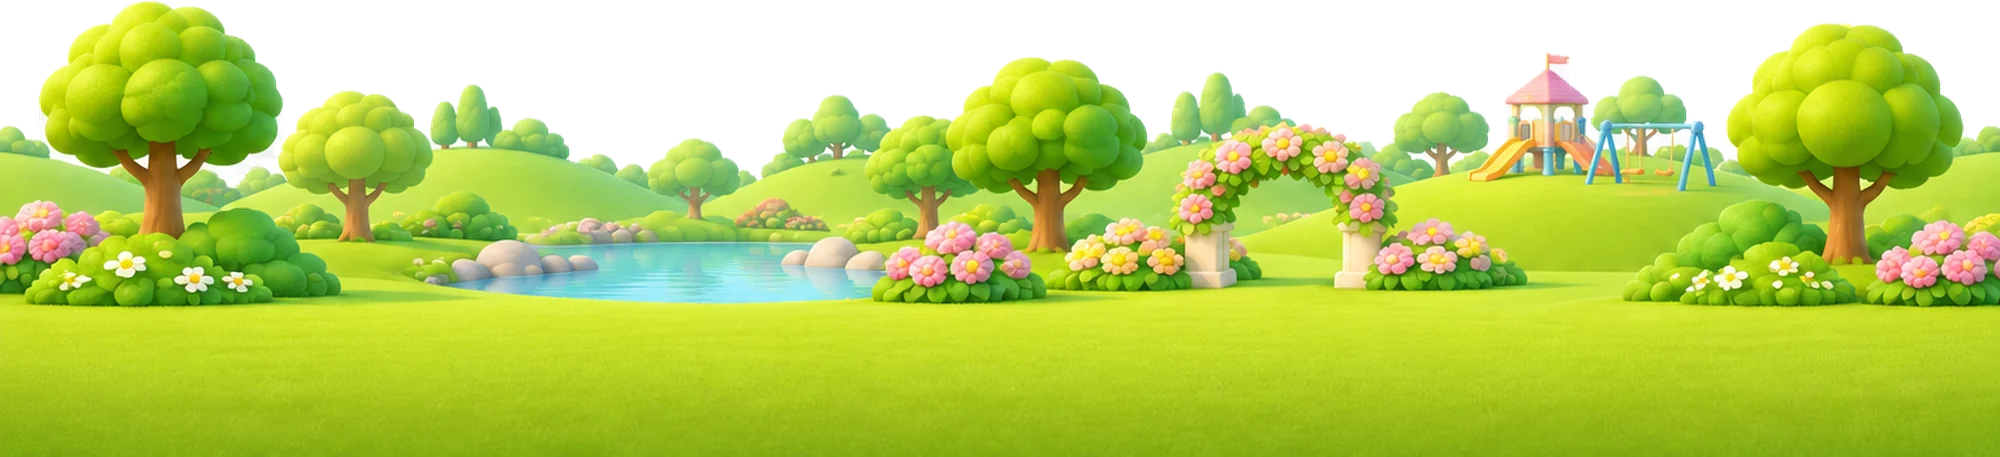
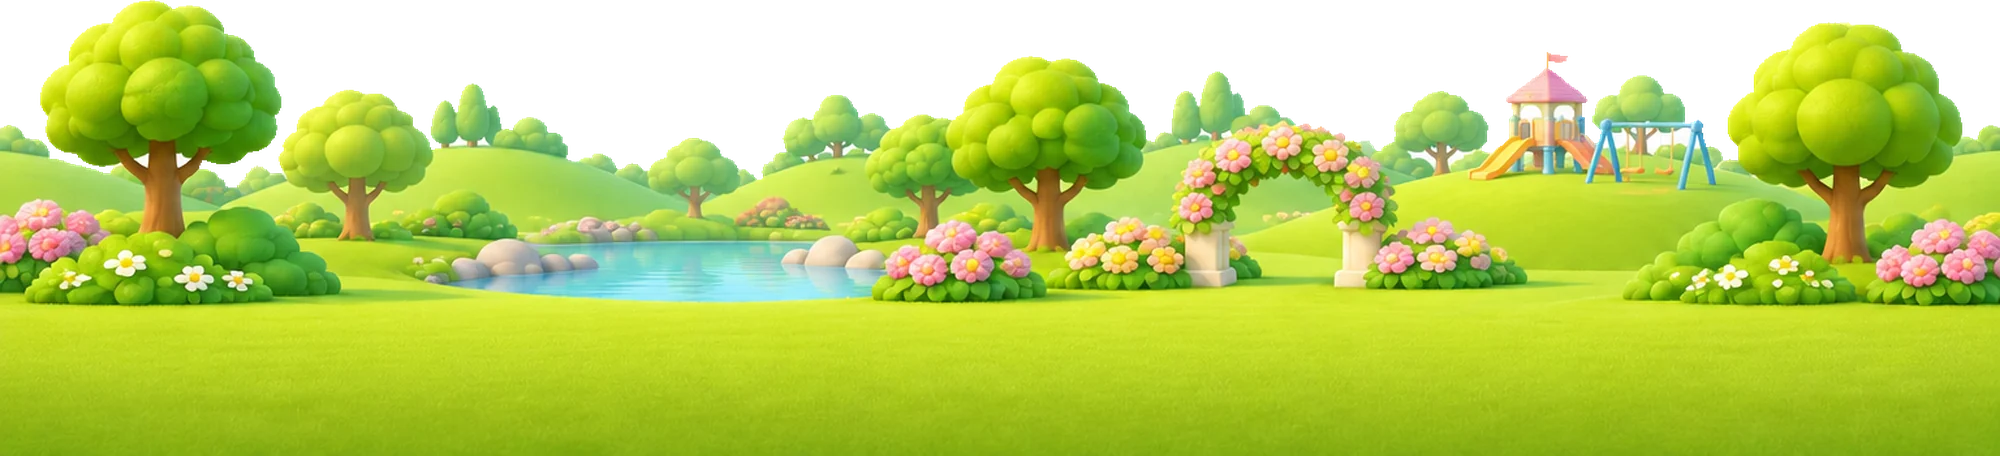
Time Rush: Sunset Town and Dreamland horizons (#15)
* Time Rush: GDD, architecture, asset bible, 113-prompt image library, animation guide

Asset catalog (src/rush/assets/catalog.ts) is the single source of truth for
the game's asset manifest and the generated docs (scripts/rush-docs.mjs).
scripts/rush-slice.py turns generated sheets into baseline-aligned WebP strips.

Claude-Session: https://claude.ai/code/session_013wiJDRDRaaq8MJ7mv9yfAM

* Time Rush: playable Morning Town vertical slice at /rush/

- Pure game core (src/rush/core): segment road generator, Morning Town route
  (3 book pickups, ramps, logs, puddles, boost pads, rainbow rings, paper-tunnel
  shortcut, squirrel acorn quest, library), rider controller with lanes, jumps,
  wobble and boost, story clock 8:00 -> 9:00 tied to progress, clock balloons
  placed where the story clock shows their time; no fail states
- Canvas 2.5D renderer: pseudo-3D road, parallax sky/hills/town, time-of-day
  sky and sun, sprite billboards with live clock hands, pooled particles,
  render-1 Baby Mo (from behind, waist-up) on a drawn balance bike; generated
  art drops in through public/rush/art + atlas.json
- Screens with the app-ayah kit buttons: splash, menu, adventures (5 worlds,
  4 coming soon), mission intro, HUD, pause, delivered, rewards, world unlock,
  bike garage, collection, parent gate + settings; EN/ID; dark menus
- Service worker caches /rush/ on demand (CACHE_RUSH)
- 11 core unit tests, Playwright playthrough in EN + ID (npm run e2e:rush),
  docs/rush/06-TESTING.md
[…]

diff --git a/src/rush/assets/packs.ts b/src/rush/assets/packs.ts
@@ -324,7 +324,7 @@ const STATUS: Record<string, [Pack["status"], string, Pack["priority"]?]> = {
 /** the few images still worth making for Morning Town; everything else waits */
 const NOW = new Set(["p07-jump", "p08-boost", "p09-pickup", "p11-wobble", "p15-celebrate", "p29-obstacles", "p38-ais-ref", "p39-ais-ride", "p40-adam-ref", "p41-adam-ride"]);
 for (const p of PACKS) if (!STATUS[p.id]) p.priority = NOW.has(p.id) ? "now" : "later";
-export const BG_DONE: Record<string, string> = { "bg-home": "your meadow with the clock tower and masjid", "bg-splash": "your sunrise road", "bg-mission": "your house with stepping stones", "bg-delivered": "your library reading room", "bg-rewards": "your rainbow meadow", "bg-garage": "your garage with the turntable", "bg-collection": "your helmet and backpack room", "bg-parents": "your stars, moons and clocks pattern", "far-morning": "your Morning Town horizon (behind the road)", "far-park": "your park horizon (ready for Sunny Park)", "far-seaside": "your seaside horizon (ready for Playtime Village)" };
+export const BG_DONE: Record<string, string> = { "bg-home": "your meadow with the clock tower and masjid", "bg-splash": "your sunrise road", "bg-mission": "your house with stepping stones", "bg-delivered": "your library reading room", "bg-rewards": "your rainbow meadow", "bg-garage": "your garage with the turntable", "bg-collection": "your helmet and backpack room", "bg-parents": "your stars, moons and clocks pattern", "far-morning": "your Morning Town horizon (behind the road)", "far-park": "your park horizon (ready for Sunny Park)", "far-seaside": "your seaside horizon (ready for Playtime Village)", "far-sunset": "your autumn town with the masjid (ready for Sunset Town)", "far-dream": "your night village with the lit masjid (ready for Dreamland)" };
 for (const p of PACKS) { const s = STATUS[p.id]; if (s) { p.status = s[0]; p.note = s[1]; if (s[2]) p.priority = s[2]; } }
 
 export const GROUPS = [...new Set(PACKS.map((p) => p.group))];

diff --git a/scripts/rush-import-art.py b/scripts/rush-import-art.py
@@ -367,11 +367,21 @@ def horizon(src, out):
         # no real transparency (white / fake checker sky): clear everything above the scenery in each column
         rgb = a[..., :3]
         mx, mn = rgb.max(axis=2), rgb.min(axis=2)
-        colourful = ((mx - mn) > 38) | (mx < 205)
+        colourful = ((mx - mn) > 38) | (mx < 150)  # grey checker squares are not scenery
         top = np.argmax(colourful, axis=0)
         rows = np.arange(a.shape[0])[:, None]
         alpha = np.clip((rows - top[None, :] + 2) * 85, 0, 255)  # 3-px soft edge
         a[..., 3] = np.minimum(a[..., 3], alpha)
+        # white sky trapped under palm fronds etc.: clear near-white pixels connected to the open sky
+        from PIL import ImageChops
+        white = Image.fromarray((((mn > 228) & ((mx - mn) < 14)) * 255).astype(np.uint8))
+        cur = Image.fromarray(((a[..., 3] == 0) * 255).astype(np.uint8))
+        for _ in range(400):
+            nxt = ImageChops.lighter(cur, ImageChops.darker(cur.filter(ImageFilter.MaxFilter(5)), white))
+            if ImageChops.difference(nxt, cur).getbbox() is None: break
+            cur = nxt
+        sky = np.array(cur.filter(ImageFilter.MaxFilter(3))) > 0
+        a[..., 3] = np.where(sky, 0, a[..., 3])
     else:
         a[a[..., 3] < 140, 3] = 0  # drop the yellow glow fringe around the hills
     im = Image.fromarray(a.astype(np.uint8)).crop(Image.fromarray(a[..., 3].astype(np.uint8)).getbbox())
@@ -381,3 +391,5 @@ def horizon(src, out):
 horizon("far-morning.png", "far-morning")
 horizon("far-park.png", "far-park")
 horizon("far-seaside.png", "far-seaside")
+horizon("far-sunset.png", "far-sunset")
+horizon("far-dream.png", "far-dream")

diff --git a/docs/rush/04-PROMPT-LIBRARY.md b/docs/rush/04-PROMPT-LIBRARY.md
@@ -274,8 +274,8 @@ The backgrounds are generated one per image (never 6 in a grid) so each keeps fu
 | B9 | Ride horizon — Morning Town | 1536×1024 | ✅ your Morning Town horizon (behind the road) |
 | B10 | Ride horizon — Sunny Park | 1536×1024 | ✅ your park horizon (ready for Sunny Park) |
 | B11 | Ride horizon — Playtime Village (seaside) | 1536×1024 | ✅ your seaside horizon (ready for Playtime Village) |
-| B12 | Ride horizon — Sunset Town | 1536×1024 | `art-src/rush/far-sunset.png` |
-| B13 | Ride horizon — Dreamland (night) | 1536×1024 | `art-src/rush/far-dream.png` |
+| B12 | Ride horizon — Sunset Town | 1536×1024 | ✅ your autumn town with the masjid (ready for Sunset Town) |
+| B13 | Ride horizon — Dreamland (night) | 1536×1024 | ✅ your night village with the lit masjid (ready for Dreamland) |
 
 ### B1. Home screen
 
